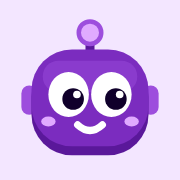
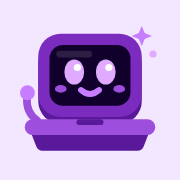
Vetted-and-interviewed messaging, experts or full teams, laptop mascot
- Say everywhere clients decide to trust us that every expert is
  vetted and passes rigorous interviews: hero eyebrow, team section,
  pricing promises, sign-up perks, and on the SEO page the intro,
  network section, a "Vetted and interviewed" reason and a new FAQ
  (also in the FAQPage structured data).
- Make clear we provide single experts and complete teams: hero line
  "Hire a single expert or a complete team.", finder placeholder, SEO
  intro and an "Experts or full teams" reason.
- Xpert is now a happy waving laptop (screen face, glowing eyes,
  sparkle); favicon and app icons regenerated.

Claude-Session: https://claude.ai/code/session_012Rzw1pCt5xZ8fwkbxETP5X

diff --git a/public/hire-tech-and-ai-experts.html b/public/hire-tech-and-ai-experts.html
@@ -104,8 +104,10 @@
             "acceptedAnswer": { "@type": "Answer", "text": "Senior developers start at $45 an hour with no minimum, and you only pay for work you approve. Site care is $249 a month, a full-time dedicated developer starts at $5,600 a month, and product teams start at $15,200 a month. There are no long-term contracts, the first two weeks are a risk-free trial, and there is no fee to hire your developer directly." } },
           { "@type": "Question", "name": "Can I hire for AI projects?",
             "acceptedAnswer": { "@type": "Answer", "text": "Yes. Our AI engineers build chatbots, document search, automations and features powered by large language models, and can add AI to a product you already have." } },
+          { "@type": "Question", "name": "How do you vet your developers?",
+            "acceptedAnswer": { "@type": "Answer", "text": "Every developer, AI engineer and security expert is vetted before they can join a team. We check their experience and past work, and they go through rigorous interviews: a technical interview on their skills, a live problem-solving session and a communication interview in English. Only those who pass every stage are accepted." } },
           { "@type": "Question", "name": "I'm a developer. Can I join from any country?",
-            "acceptedAnswer": { "@type": "Answer", "text": "Yes. Create a free developer profile, set your own rate and availability, and join client teams that match your skills, wherever you live." } }
+            "acceptedAnswer": { "@type": "Answer", "text": "Yes. Create a free developer profile, pass our vetting and interviews, then set your own rate and availability and join client teams that match your skills, wherever you live." } }
         ]
       }
     ]
@@ -136,7 +138,7 @@
       <div class="container">
         <nav class="crumbs" aria-label="Breadcrumb"><a href="/">Home</a> <span aria-hidden="true">/</span> <span aria-current="page">Hire tech and AI experts</span></nav>
         <h1><strong>Hire tech and AI experts</strong> <span>on demand, wherever you are</span></h1>
-        <p class="seo-lead">Tech and AI Xperts gives businesses in the USA, the UK, Europe, Africa and around the world an on-demand team of developers, AI engineers and cybersecurity experts. You set the deadline. We assemble the team.</p>
+        <p class="seo-lead">Tech and AI Xperts gives businesses in the USA, the UK, Europe, Africa and around the world an on-demand access to vetted, interviewed developers, AI engineers and cybersecurity experts. Hire a single expert or a complete team. You set the deadline, and we assemble the people.</p>
         <div class="seo-actions">
           <a class="btn primary caps" href="/#/new">Build my team</a>
           <a class="btn outline caps" href="/#/developers">Meet the experts</a>
@@ -172,7 +174,7 @@
     <section class="container seo-section seo-split" aria-labelledby="network">
       <div>
         <h2 id="network">A global network of developers</h2>
-        <p>Our developers, AI engineers and security experts work remotely from across the Americas, Europe, Africa and Asia. That means the right skills for your project and a team that can cover your working hours, whatever your time zone.</p>
+        <p>Our developers, AI engineers and security experts work remotely from across the Americas, Europe, Africa and Asia. Every one of them is vetted and passes rigorous interviews before joining a client team. That means the right skills for your project and a team that can cover your working hours, whatever your time zone.</p>
         <ul class="seo-list">
           <li>Full-stack, mobile and backend developers</li>
           <li>AI, machine learning and data engineers</li>
@@ -202,6 +204,8 @@
     <section class="container seo-section" aria-labelledby="why">
       <h2 id="why">Why businesses choose Tech and AI Xperts</h2>
       <div class="seo-grid">
+        <article><h3>Experts or full teams</h3><p>Add one specialist to your team, or get a complete team with a lead, developers, design and QA.</p></article>
+        <article><h3>Vetted and interviewed</h3><p>Every expert passes our checks and rigorous technical and communication interviews.</p></article>
         <article><h3>On demand</h3><p>One expert for a quick fix, or a team of five for a full product.</p></article>
         <article><h3>Your deadline</h3><p>Every job starts with your date, and the team works to it.</p></article>
         <article><h3>No lock-in</h3><p>Senior developers from $45 an hour. Month to month, a 2-week risk-free trial and no fee to hire your developer directly.</p></article>
@@ -215,7 +219,8 @@
       <details><summary>How quickly can I get a team?</summary><p>You can post a job in minutes. Our AI assistant turns your idea into a clear plan, you see matched developers straight away, and you can add them to your team or let them join from the job board.</p></details>
       <details><summary>How does pricing work?</summary><p>Senior developers start at $45 an hour with no minimum, and you only pay for work you approve. Site care is $249 a month, a full-time dedicated developer starts at $5,600 a month, and product teams start at $15,200 a month. There are no long-term contracts, the first two weeks are a risk-free trial, and there is no fee to hire your developer directly.</p></details>
       <details><summary>Can I hire for AI projects?</summary><p>Yes. Our AI engineers build chatbots, document search, automations and features powered by large language models, and can add AI to a product you already have.</p></details>
-      <details><summary>I'm a developer. Can I join from any country?</summary><p>Yes. Create a free developer profile, set your own rate and availability, and join client teams that match your skills, wherever you live.</p></details>
+      <details><summary>How do you vet your developers?</summary><p>Every developer, AI engineer and security expert is vetted before they can join a team. We check their experience and past work, and they go through rigorous interviews: a technical interview on their skills, a live problem-solving session and a communication interview in English. Only those who pass every stage are accepted.</p></details>
+      <details><summary>I'm a developer. Can I join from any country?</summary><p>Yes. Create a free developer profile, pass our vetting and interviews, then set your own rate and availability and join client teams that match your skills, wherever you live.</p></details>
     </section>
 
     <section class="container seo-section">

diff --git a/public/app.js b/public/app.js
@@ -284,7 +284,7 @@ const MAX_TEAM = 5; // the most developers a job can have
 const usd = (n) => new Intl.NumberFormat('en-US', { style: 'currency', currency: 'USD', maximumFractionDigits: 0 }).format(n);
 
 // What every client gets, whatever they buy.
-const PROMISES = ['No long-term contracts', '2-week risk-free trial', 'No fee to hire your developer directly', 'Pay only for approved work'];
+const PROMISES = ['Every expert vetted and interviewed', 'No long-term contracts', '2-week risk-free trial', 'No fee to hire directly', 'Pay only for approved work'];
 
 // [name, price, unit, summary, prefill for the job form, featured]
 const PACKAGES = [
@@ -417,15 +417,16 @@ async function viewHome() {
         </picture>
       </div>
       <div class="hero-copy">
-        <p class="eyebrow">${stats.developers} experts ready to join your team</p>
+        <p class="eyebrow">${stats.developers} vetted, interviewed experts ready to join your team</p>
         <h1><strong>Your tech team,</strong> <span>on your timeline</span></h1>
+        <p class="hero-sub">Hire a single expert or a complete team.</p>
         <div class="finder">
           <div class="finder-tabs" role="tablist">
             <button type="button" role="tab" aria-selected="true" class="on" data-finder="hire">${icon('briefcase', { size: 18 })}Hire a team</button>
             <button type="button" role="tab" aria-selected="false" data-finder="join">${icon('code', { size: 18 })}Join as developer</button>
           </div>
           <form class="finder-body" id="finder-hire">
-            <input id="finder-text" placeholder="What do you need built?" aria-label="What do you need built?" required />
+            <input id="finder-text" placeholder="What do you need built? One expert or a whole team" aria-label="What do you need built?" required />
             <button class="btn primary">Find my team</button>
           </form>
           <div class="finder-body" id="finder-join" hidden>
@@ -445,7 +446,7 @@ async function viewHome() {
     </section>
 
     <section class="section" id="team">
-      <div class="section-head"><h2>Meet the people who'll build it</h2><a class="btn" href="#/developers">Meet everyone</a></div>
+      <div class="section-head"><div><h2>Meet the people who'll build it</h2><p class="muted">Every expert is vetted and passes rigorous interviews before joining.</p></div><a class="btn" href="#/developers">Meet everyone</a></div>
       <div class="role-photos">${ROLE_PHOTOS.map((r) => rolePhoto(r, 720, 900)).join('')}</div>
       <div class="role-photos wide">${ROLE_PHOTOS_WIDE.map((r) => rolePhoto(r, 1200, 750)).join('')}</div>
     </section>
@@ -560,11 +561,11 @@ async function viewDeveloper(id) {
 const AUTH_PERKS = {
   developer: {
     title: 'Grow your freelance work with Tech and AI Xperts',
-    perks: ['Join client teams that fit your skills', 'Set your own hourly rate and availability', 'AI-scoped briefs, so you know exactly what to build', 'Build a reputation with ratings and reviews'],
+    perks: ['Pass our vetting and interviews once, then get matched with clients', 'Join client teams that fit your skills', 'Set your own hourly rate and availability', 'AI-scoped briefs, so you know exactly what to build', 'Build a reputation with ratings and reviews'],
   },
   client: {
     title: 'Your tech team, on your timeline',
-    perks: ['Get a team of developers for your product', 'You set the deadline', 'Chat with your team and track progress', 'Pay only for work you approve'],
+    perks: ['Every expert is vetted and interviewed', 'Get a team of developers for your product', 'You set the deadline', 'Chat with your team and track progress', 'Pay only for work you approve'],
   },
 };
 

diff --git a/public/styles.css b/public/styles.css
@@ -615,3 +615,5 @@ input:focus, textarea:focus, select:focus { border-color: var(--p400); outline: 
 .stepper { border-radius: 12px; overflow: hidden; border-width: 2px; }
 .builder-summary { border-radius: 16px; }
 @media (max-width: 420px) { .finder-tabs button { font-size: .86rem; padding: 10px 8px; gap: 6px; white-space: nowrap; } .finder-tabs button .icon { display: none; } }
+
+.hero-sub { margin: 14px 0 0; font-size: 1.15rem; color: #e3d0f7; }
